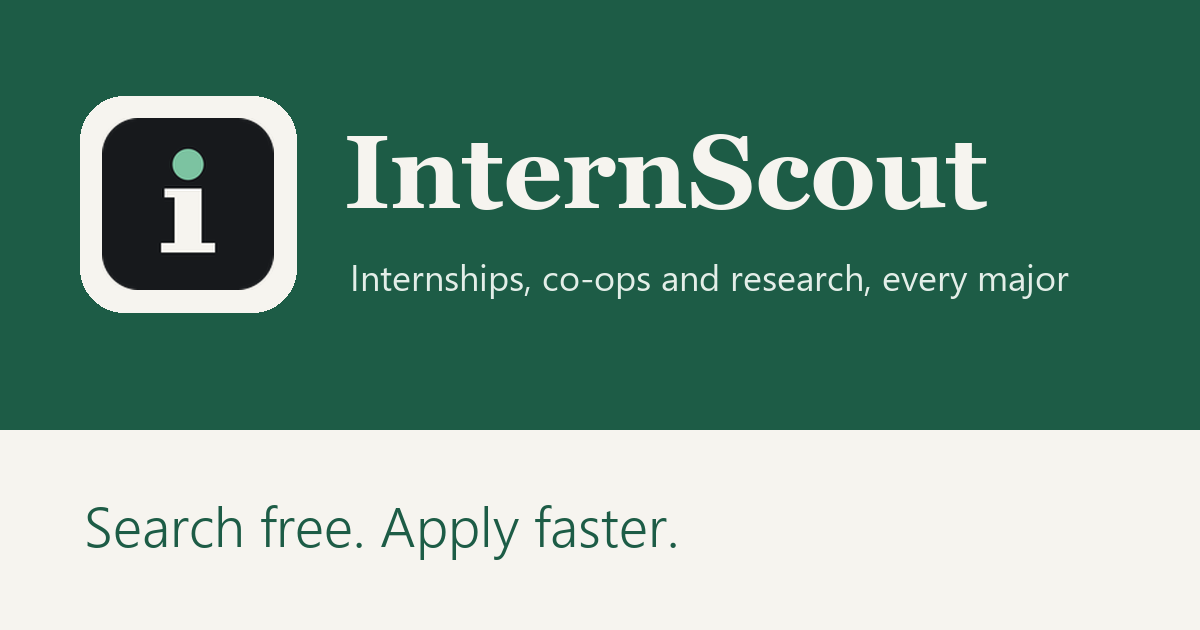
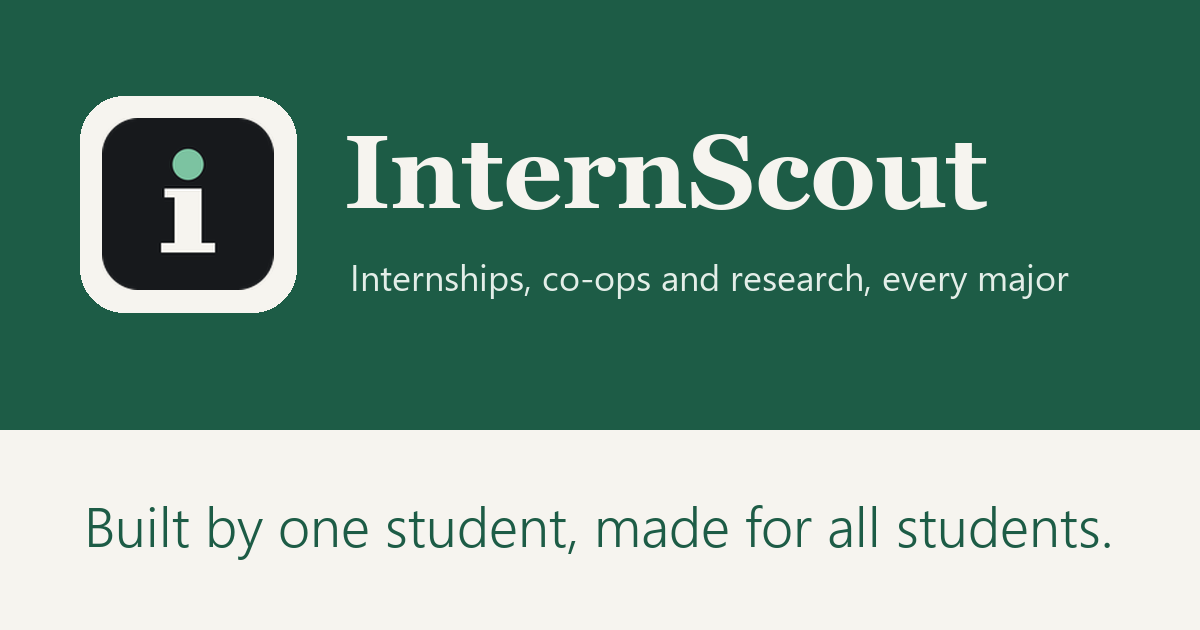
Slogan on the share card and landing pages
"Built by one student, made for all students." replaces "Search free. Apply
faster." on the link-preview card (scripts/make_og_image.py, same 56px, ends
at x=1113) and leads the landing-page footer.

Changed region(s): [[0.0617, 0.7841, 0.925, 0.8746]]

diff --git a/backend/internscout/seo_pages.py b/backend/internscout/seo_pages.py
@@ -346,7 +346,7 @@ def page(path: str, title: str, description: str, h1: str, crumbs: list[tuple[st
 {body}
 <p class="updated">Updated {esc(updated)}. Listings are collected from public job boards several times a day; always check the posting on the employer's site before applying.</p>
 </main>
-<footer>InternScout is a free internship search made by a UMass Amherst student. Not affiliated with UMass Amherst. <a href="/privacy">Privacy</a> · <a href="/terms">Terms</a></footer>
+<footer><strong>Built by one student, made for all students.</strong> InternScout is a free internship search made by a UMass Amherst student. Not affiliated with UMass Amherst. <a href="/privacy">Privacy</a> · <a href="/terms">Terms</a></footer>
 </div>
 {BEACON}
 </body>

diff --git a/scripts/make_og_image.py b/scripts/make_og_image.py
@@ -53,7 +53,10 @@ def build() -> Path:
            font=_font("segoeui.ttf", 36), fill=SOFT)
 
     # was: y=520, which sat 50px below the band's centre line once the band moved up.
-    d.text((84, 486), "Search free. Apply faster.", font=_font("segoeuisl.ttf", 56), fill=ACCENT)
+    # was: "Search free. Apply faster." The slogan the owner chose on 2026-09-23 for every ad surface,
+    # and a link preview is the one every share carries. At 56px it ends at x=1113, a right margin
+    # to match the 84px left one.
+    d.text((84, 486), "Built by one student, made for all students.", font=_font("segoeuisl.ttf", 56), fill=ACCENT)
 
     OUT.parent.mkdir(parents=True, exist_ok=True)
     img.save(OUT, "PNG", optimize=True)
